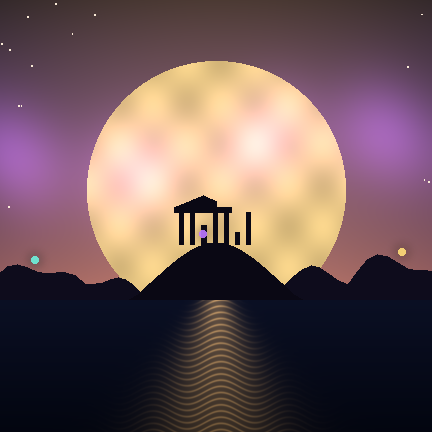
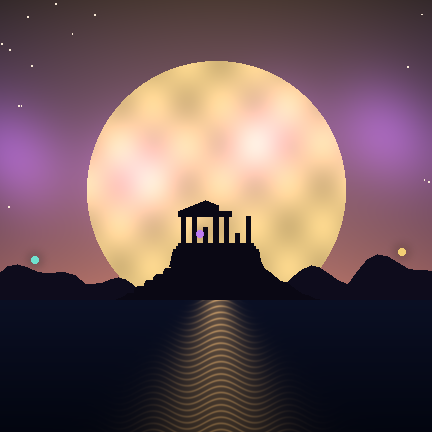
Cult weapons held head first with spear moves; splash temple on its crag
- CultGear: no turn in the hand (the turn about Z laid staffs and spears across the fist)
- Priest, Guardian, Hierophant, Polemarch strike with Thrust; the Polemarch sweeps with Sweep
- Fort-gate blows use the same move
- Splash and icons: Fontanova's Acropolis crag, the temple on its stepped floor
- Cult review renders the real strikes

Claude-Session: https://claude.ai/code/session_01P15f91vZw5MWq34eF7AJoA

diff --git a/tools/make_launcher.py b/tools/make_launcher.py
@@ -442,24 +442,38 @@ def gods_backdrop(w, h, adaptive, seed=29):
             pts.append(((x0 + (x1 - x0) * f) * w, base - tall * h * np.sin(f * np.pi) ** 0.8 * (0.8 + 0.2 * np.sin(f * 9 + x0 * 7))))
         pts.append((x1 * w, base))
         idr.polygon(pts, fill=(14, 12, 28, 255))
-    # The near island under the moon: a hill and the temple's broken colonnade on top.
-    hill = [(0.3 * w, base)]
-    for k in range(21):
-        f = k / 20
-        hill.append(((0.3 + 0.4 * f) * w, base - 0.13 * h * np.sin(f * np.pi) ** 1.3))
-    hill.append((0.7 * w, base))
-    idr.polygon(hill, fill=(10, 8, 20, 255))
-    crest = base - 0.13 * h
+    # The near island under the moon, as Fontanova is: olive terraces climbing from the shore to the
+    # Acropolis, a crag with sheer sides and a flat top, and the temple standing on that top, on its
+    # stepped floor, its colonnade broken and its roof fallen at one end. Everything stands on the rock.
+    dark = (10, 8, 20, 255)
+    crest = base - 0.115 * h
+    island = [(0.27 * w, base)]
+    for k in range(5):  # terraces up the west side: a rise, then a step
+        x = 0.29 + k * 0.022
+        y = base - (0.014 + k * 0.014) * h
+        island += [(x * w, y + 0.006 * h), ((x + 0.006) * w, y), ((x + 0.022) * w, y)]
+    island += [(0.392 * w, base - 0.075 * h), (0.398 * w, crest + 0.02 * h), (0.402 * w, crest)]  # the crag's west face
+    island += [(0.598 * w, crest), (0.604 * w, crest + 0.025 * h), (0.612 * w, base - 0.07 * h)]  # its east face
+    for k in range(7):  # and the long east slope to the sea
+        f = (k + 1) / 7
+        island.append(((0.612 + 0.12 * f) * w, base - 0.07 * h * (1 - f) ** 1.2 + 0.003 * h * np.sin(k * 2.1)))
+    island.append((0.74 * w, base))
+    idr.polygon(island, fill=dark)
+    # The temple's stepped floor, on the crag's top (two steps, wider below).
+    idr.rectangle((0.408 * w, crest - 0.007 * h, 0.592 * w, crest + 2), fill=dark)
+    idr.rectangle((0.414 * w, crest - 0.014 * h, 0.586 * w, crest - 0.006 * h), fill=dark)
+    floor = crest - 0.014 * h
     cw = 0.014 * w
-    for k, hgt in enumerate((0.07, 0.07, 0.04, 0.07, 0.07, 0.025, 0.07)):
-        x = (0.42 + k * 0.026) * w
-        idr.rectangle((x - cw * 0.35, crest - hgt * h, x + cw * 0.35, crest + 2), fill=(10, 8, 20, 255))
-    idr.rectangle((0.405 * w, crest - 0.082 * h, 0.535 * w, crest - 0.07 * h), fill=(10, 8, 20, 255))
-    idr.polygon([(0.405 * w, crest - 0.082 * h), (0.47 * w, crest - 0.11 * h), (0.5 * w, crest - 0.095 * h), (0.5 * w, crest - 0.082 * h)], fill=(10, 8, 20, 255))
+    for k, hgt in enumerate((0.062, 0.062, 0.036, 0.062, 0.062, 0.022, 0.062)):
+        x = (0.425 + k * 0.025) * w
+        idr.rectangle((x - cw * 0.35, floor - hgt * h, x + cw * 0.35, floor + 2), fill=dark)
+    # The entablature and pediment still over the west end; the east end's roof has fallen.
+    idr.rectangle((0.414 * w, floor - 0.074 * h, 0.536 * w, floor - 0.061 * h), fill=dark)
+    idr.polygon([(0.414 * w, floor - 0.074 * h), (0.475 * w, floor - 0.1 * h), (0.505 * w, floor - 0.087 * h), (0.505 * w, floor - 0.074 * h)], fill=dark)
     im.alpha_composite(isles)
     lights = Image.new("RGBA", (w, h), (0, 0, 0, 0))
     ld = ImageDraw.Draw(lights)
-    for x, y, col in ((0.08, base - 0.09 * h, (110, 240, 220)), (0.93, base - 0.11 * h, (255, 220, 120)), (0.47, crest - 0.02 * h, (190, 120, 255))):
+    for x, y, col in ((0.08, base - 0.09 * h, (110, 240, 220)), (0.93, base - 0.11 * h, (255, 220, 120)), (0.4625, crest - 0.036 * h, (190, 120, 255))):
         r = 0.008 * h
         ld.ellipse((x * w - r, y - r, x * w + r, y + r), fill=col + (230,))
     im.alpha_composite(lights.filter(ImageFilter.GaussianBlur(h * 0.012)))

diff --git a/CHANGELOG.md b/CHANGELOG.md
@@ -84,8 +84,8 @@
 - Returning to the title screen after a match is much quicker again.
 - Fixed a rare case where nothing nearby could be picked up.
 - Creatures backing away from you no longer get stuck against walls. Cornered, they stand and fight.
-- The Priest of Change and the temple's spearmen strike with the head of the staff or spear, not the butt.
-- Fontanova's temple steps no longer have an invisible wall, and its loading view no longer floats.
+- The Priest of Change, the Hierophant and the temple's spearmen hold their staffs and spears the right way round, and thrust and sweep with them instead of punching.
+- Fontanova's temple steps no longer have an invisible wall, and the temple no longer floats on the loading view or the splash screen.
 
 ## 0.22.1 — The Sunken Crown (24 November 2026)
 
